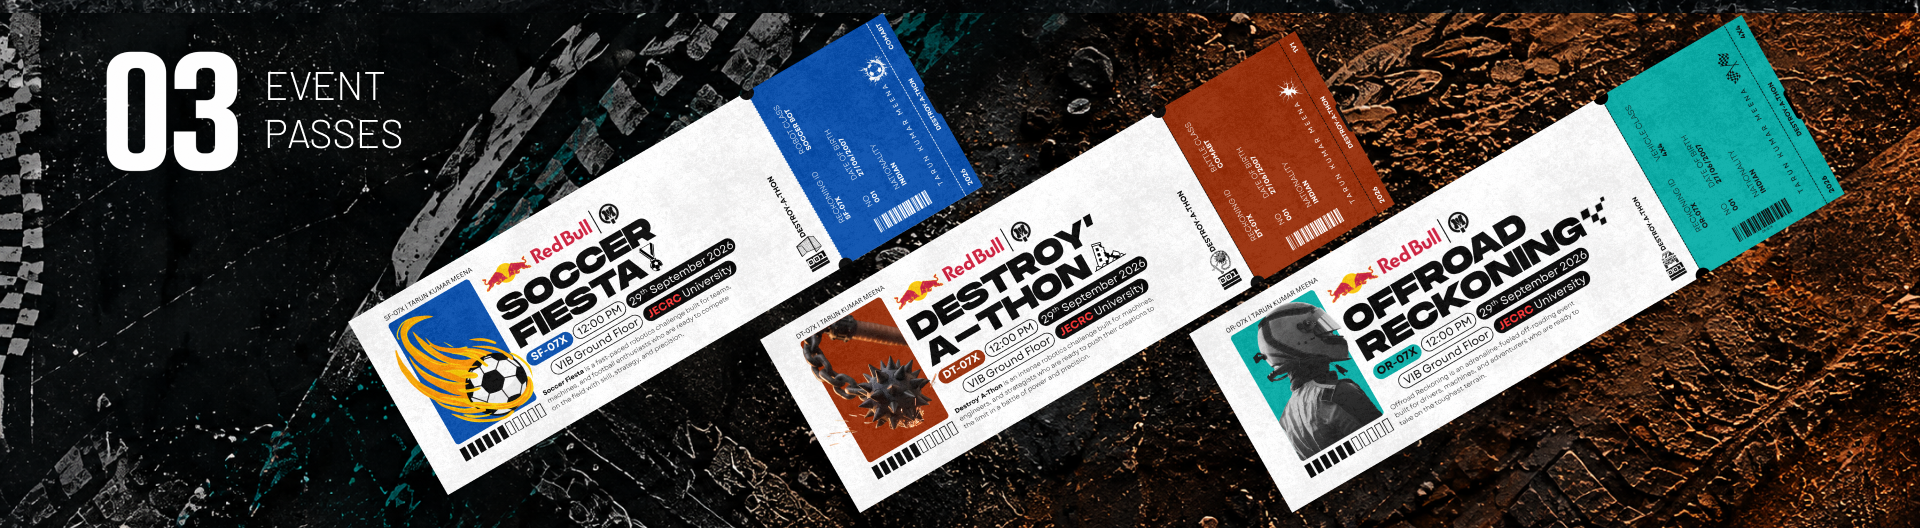
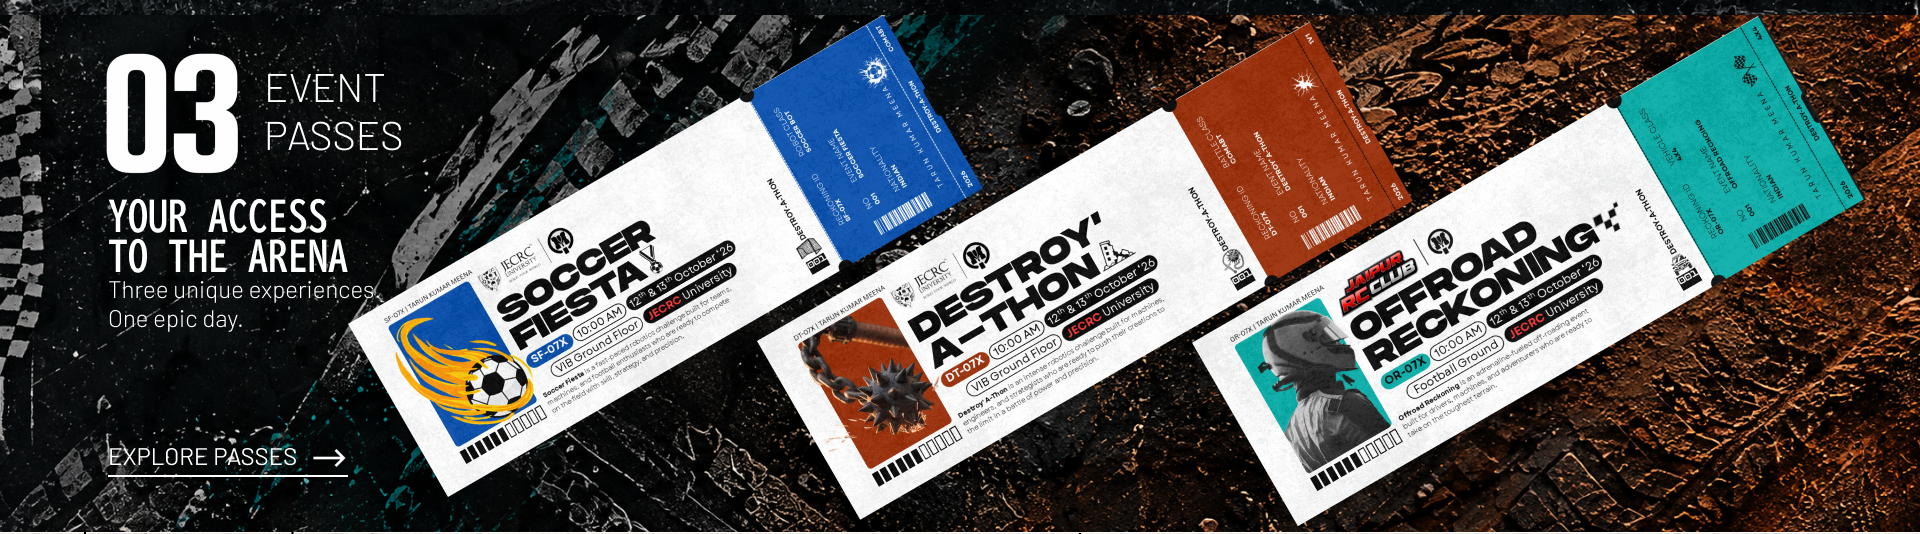
minor ui fix

diff --git a/src/components/EventPasses.tsx b/src/components/EventPasses.tsx
@@ -1,5 +1,5 @@
 import React from 'react';
-import { ArrowRight } from 'lucide-react';
+
 
 interface EventPassesProps {
   onSelectPass: (event: 'destroy' | 'soccer' | 'rc_race') => void;
@@ -21,38 +21,19 @@ export const EventPasses: React.FC<EventPassesProps> = ({ onSelectPass, onExplor
           className="w-full h-full object-cover block"
         />
 
-        {/* Left Side Text Content Overlay */}
-        <div 
-          className="absolute z-10 flex flex-col justify-between"
+        {/* Invisible hotspot for EXPLORE PASSES text on the image */}
+        <button
+          type="button"
+          onClick={onExploreClick}
+          title="Explore Passes"
+          className="absolute z-10 cursor-pointer rounded hover:bg-white/[0.04] transition-all duration-300"
           style={{
-            top: '43.5%',
-            left: '5.2%',
-            maxWidth: '13.5%',
-            bottom: '10%',
+            bottom: '8%',
+            left: '3%',
+            width: '18%',
+            height: '10%',
           }}
-        >
-          {/* Headline & Subtitle */}
-          <div>
-            <h2 className="font-condensed font-black tracking-tight text-white uppercase leading-[0.92] text-[clamp(11px,1.42vw,28px)]">
-              YOUR ACCESS<br />TO THE ARENA
-            </h2>
-            <p className="font-sans text-zinc-300 font-normal leading-tight text-[clamp(7.5px,0.85vw,16px)] mt-2 sm:mt-2.5">
-              Three unique experiences.<br />One epic day.
-            </p>
-          </div>
-
-          {/* EXPLORE PASSES -> CTA */}
-          <div>
-            <button
-              type="button"
-              onClick={onExploreClick}
-              className="group font-condensed font-bold uppercase tracking-wider text-white hover:text-brand-red text-[clamp(8px,0.92vw,17px)] border-b border-white hover:border-brand-red transition-all duration-200 inline-flex items-center gap-1.5 cursor-pointer pb-0.5 whitespace-nowrap"
-            >
-              <span>EXPLORE PASSES</span>
-              <ArrowRight className="w-[1.1em] h-[1.1em] transition-transform group-hover:translate-x-1" />
-            </button>
-          </div>
-        </div>
+        />
 
         {/* Interactive Clickable Hotspots for the 3 Tilted Passes */}
         {/* Pass 1: Soccer Fiesta */}

diff --git a/src/components/Hero.tsx b/src/components/Hero.tsx
@@ -62,7 +62,7 @@ export const Hero: React.FC<HeroProps> = ({ onGetPassClick }) => {
                     JECRC UNIVERSITY
                   </span>
                   <span className="text-zinc-400 text-xs xl:text-sm font-normal mt-0.5 tracking-wide">
-                    Central Lawn
+                    American Football Ground
                   </span>
                 </div>
               </div>
@@ -205,7 +205,7 @@ export const Hero: React.FC<HeroProps> = ({ onGetPassClick }) => {
                     JECRC UNIVERSITY
                   </span>
                   <span className="text-zinc-400 text-[11px] font-normal">
-                    Central Lawn
+                    American Football Ground
                   </span>
                 </div>
               </div>

diff --git a/src/components/PassModal.tsx b/src/components/PassModal.tsx
@@ -154,7 +154,7 @@ export const PassModal: React.FC<PassModalProps> = ({ isOpen, onClose, initialEv
               {step === 'payment' ? 'REGISTRATION CONFIRMED' : 'GET YOUR PASS'}
             </h2>
             <p className="text-zinc-400 text-xs sm:text-sm mt-1">
-              12th &middot; 13th October 2026 &middot; Central Lawn, JECRC
+              12th &middot; 13th October 2026 &middot; American Football Ground, JECRC
             </p>
           </div>
 
